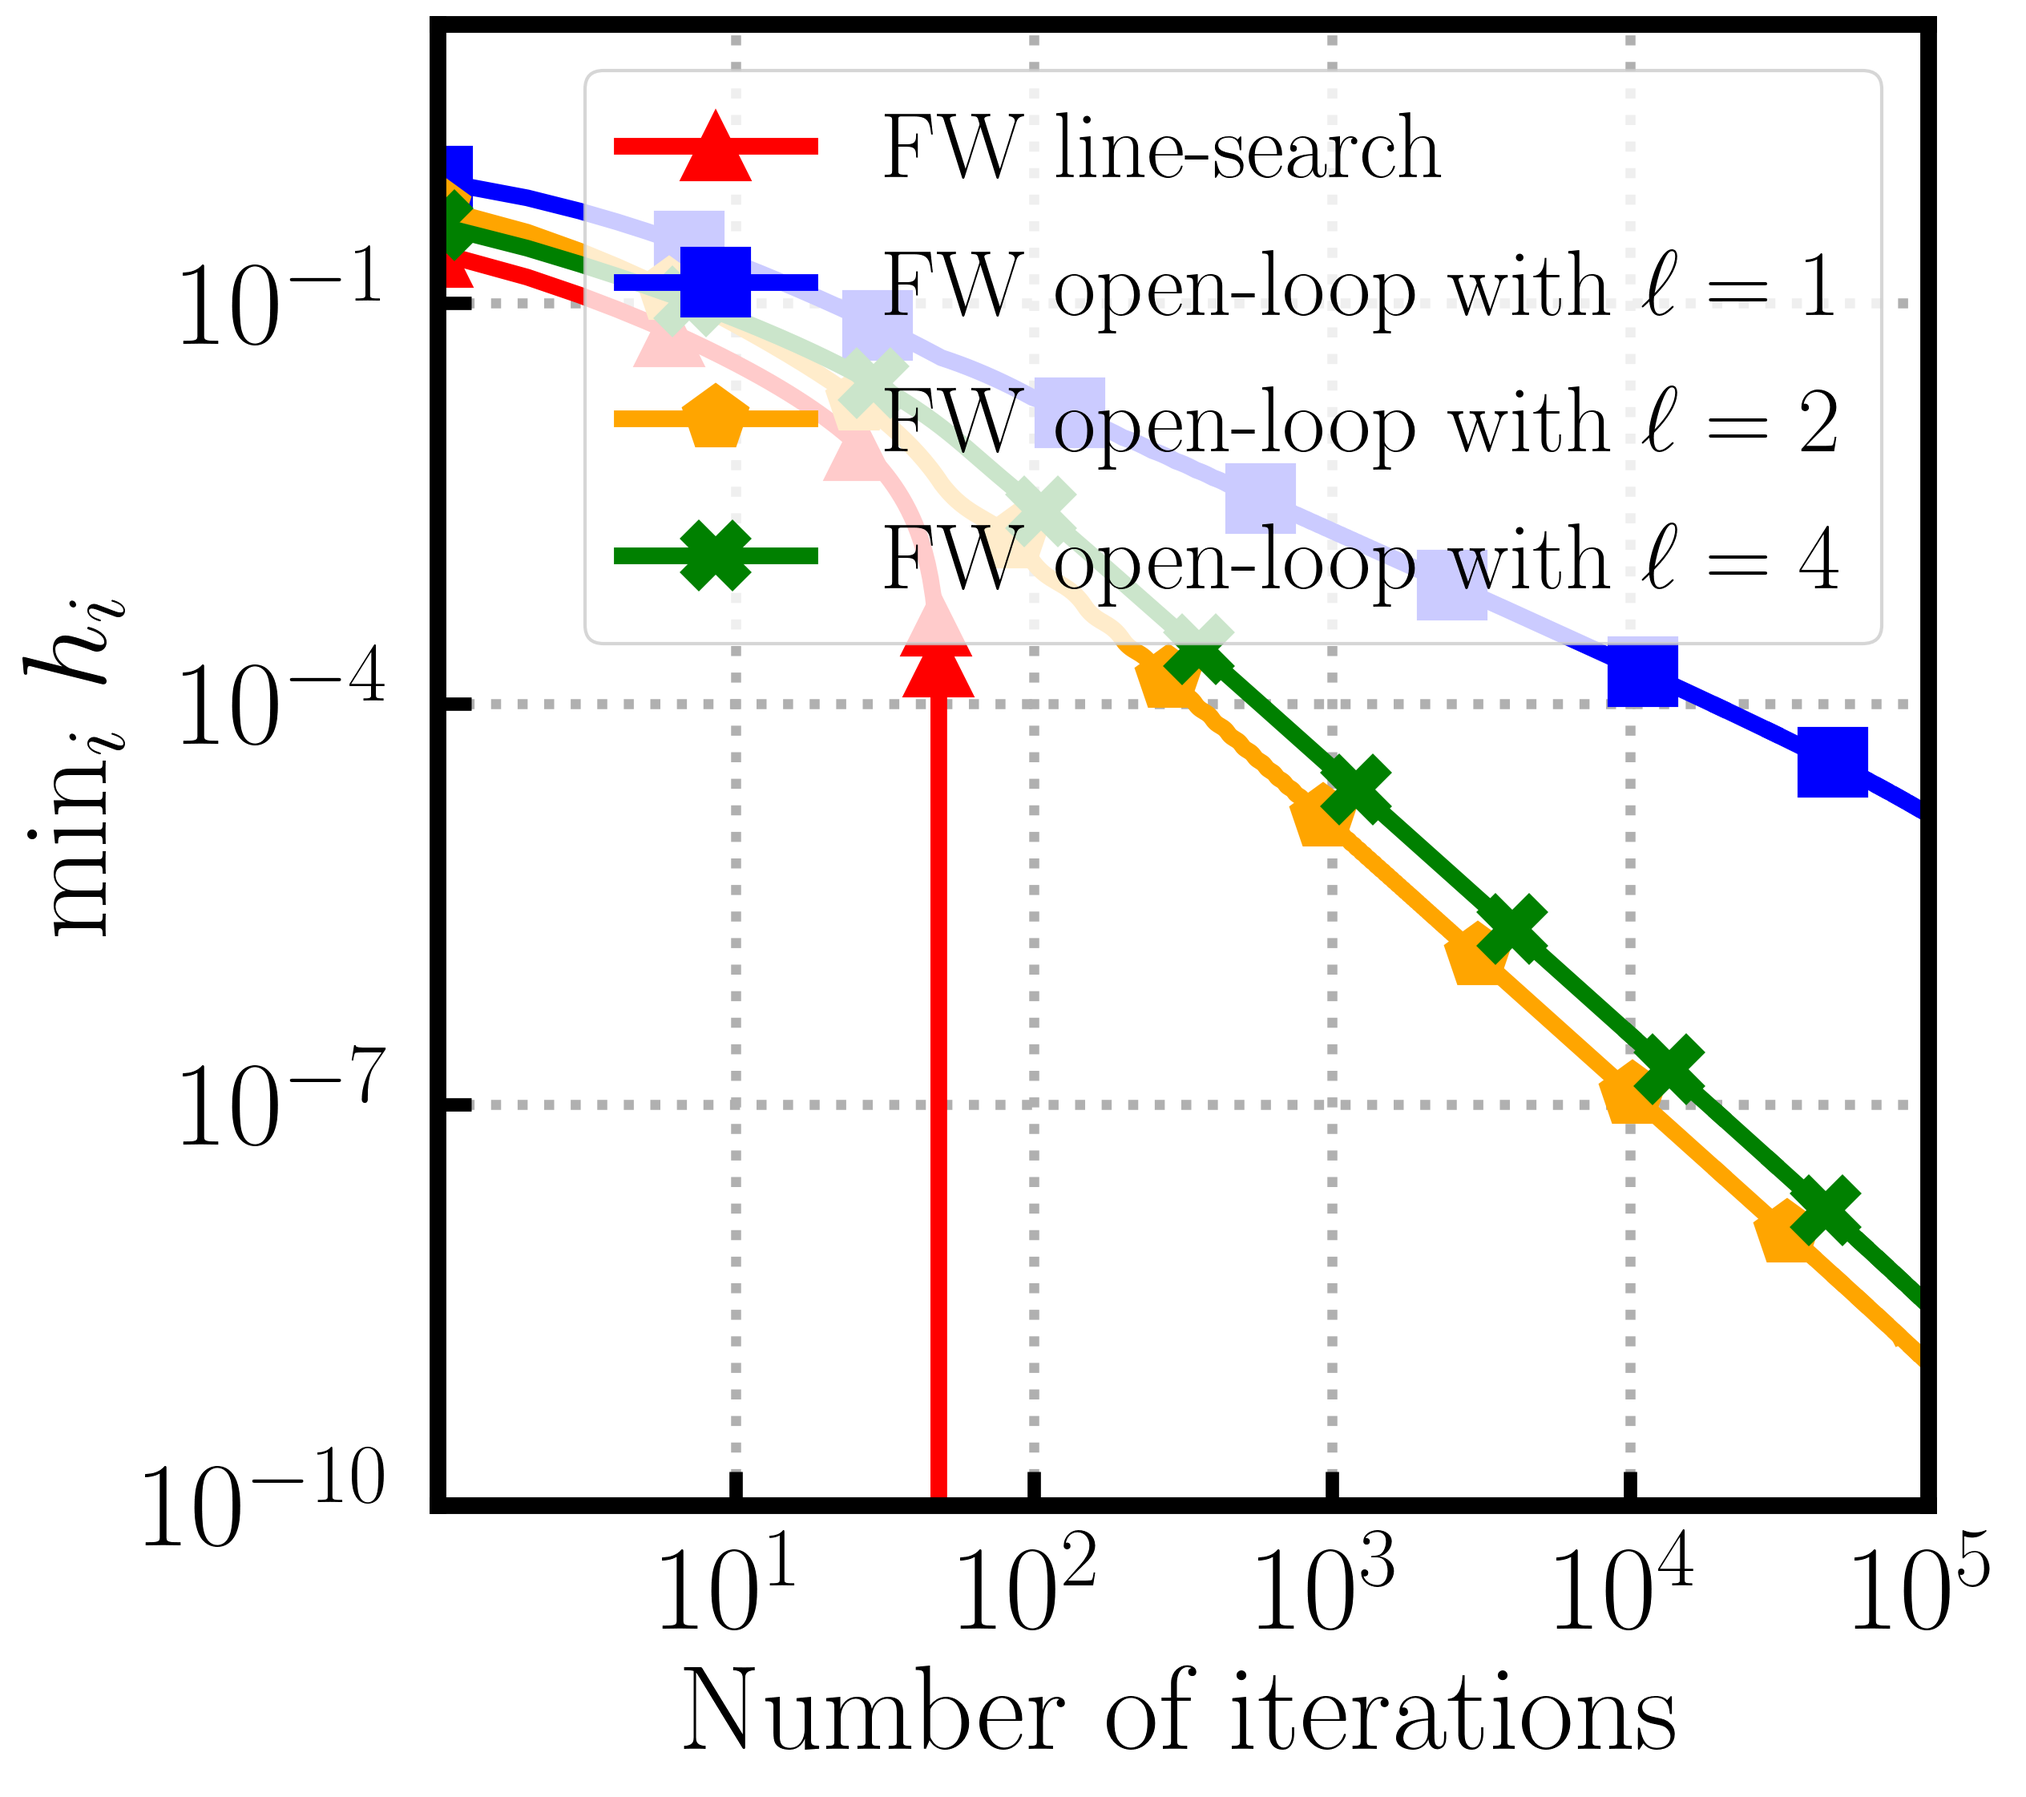
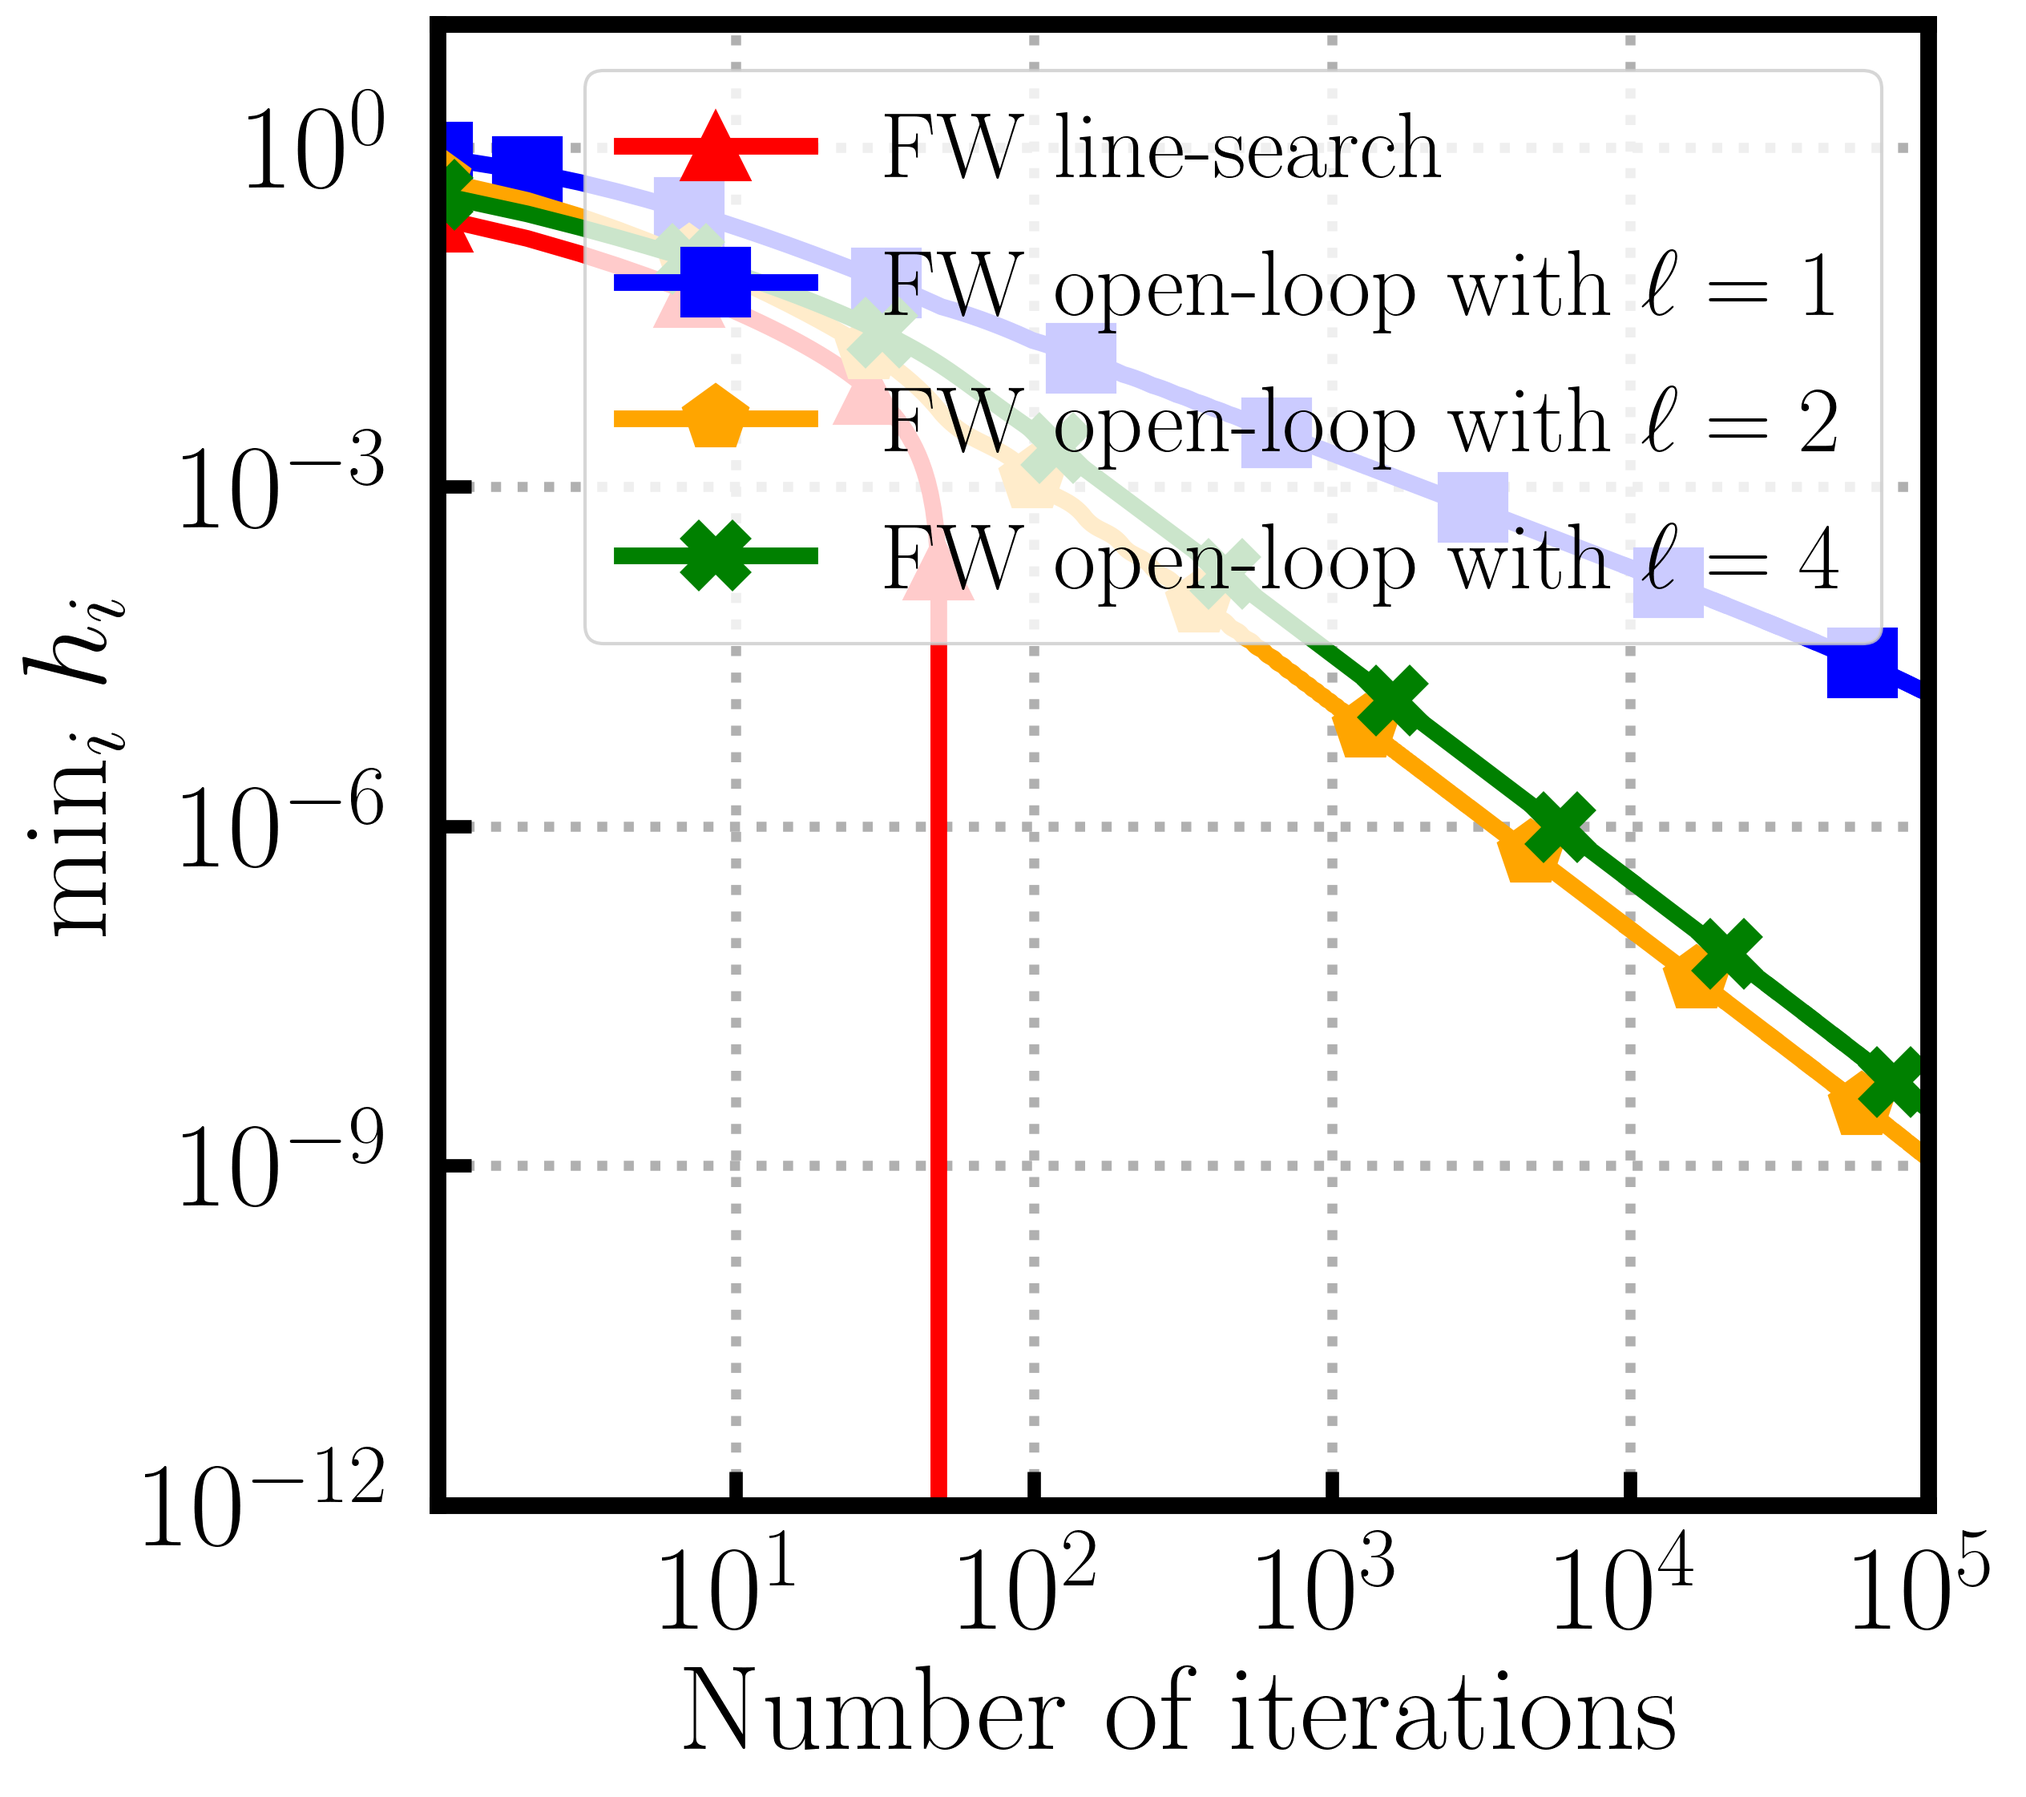
updated experiments for journal version

diff --git a/all_functions/frank_wolfe.py b/all_functions/frank_wolfe.py
@@ -75,8 +75,6 @@ def frank_wolfe(feasible_region,
             iterate_list.append(x)
         loss_list.append(loss)
         fw_gap_list.append(fw_gap)
-        if loss < 10e-60:
-            break
     return iterate_list, loss_list, fw_gap_list, x, x_p_list
 
 
@@ -281,8 +279,6 @@ def decomposition_invariant_frank_wolfe(feasible_region,
             x = x.flatten() + scalar * (p.flatten() - p_difw.flatten())
 
         loss = objective_function.evaluate_loss(x)
-        if loss < 10e-30:
-            break
 
         iterate_list.append(x)
         if store_iterates:
@@ -361,8 +357,6 @@ def momentum_guided_frank_wolfe(feasible_region,
             iterate_list.append(x)
         loss_list.append(loss)
         fw_gap_list.append(fw_gap)
-        if loss < 10e-60:
-            break
     return iterate_list, loss_list, fw_gap_list, x, x_p_list
 
 
@@ -421,8 +415,7 @@ def primal_averaging_frank_wolfe(feasible_region,
         scalar = objective_function.compute_step_size(i, x, v, gradient, step=step)
 
         y = (1 - scalar) * x + scalar * v
-        gradient = objective_function.evaluate_gradient(y)
-        theta = (1 - scalar) * theta.flatten() + scalar * gradient.flatten()
+        theta = objective_function.evaluate_gradient(y).flatten()
         v, _, _ = feasible_region.linear_minimization_oracle(theta, x)
 
         # compute correct FW gap
@@ -435,6 +428,4 @@ def primal_averaging_frank_wolfe(feasible_region,
             iterate_list.append(x)
         loss_list.append(loss)
         fw_gap_list.append(fw_gap)
-        if loss < 10e-60:
-            break
     return iterate_list, loss_list, fw_gap_list, x, x_p_list

diff --git a/all_functions/plotting.py b/all_functions/plotting.py
@@ -9,7 +9,7 @@ def determine_y_lims(data):
     max_val = 1e-16
     min_val = 1e+16
     for entry in data:
-        min_val = max(min(min(entry) / 10, min_val), 1e-10)
+        min_val = max(min(min(entry) / 10, min_val), 1e-12)
         max_val = max(max(entry) * 10, max_val)
     return min_val, max_val
 
